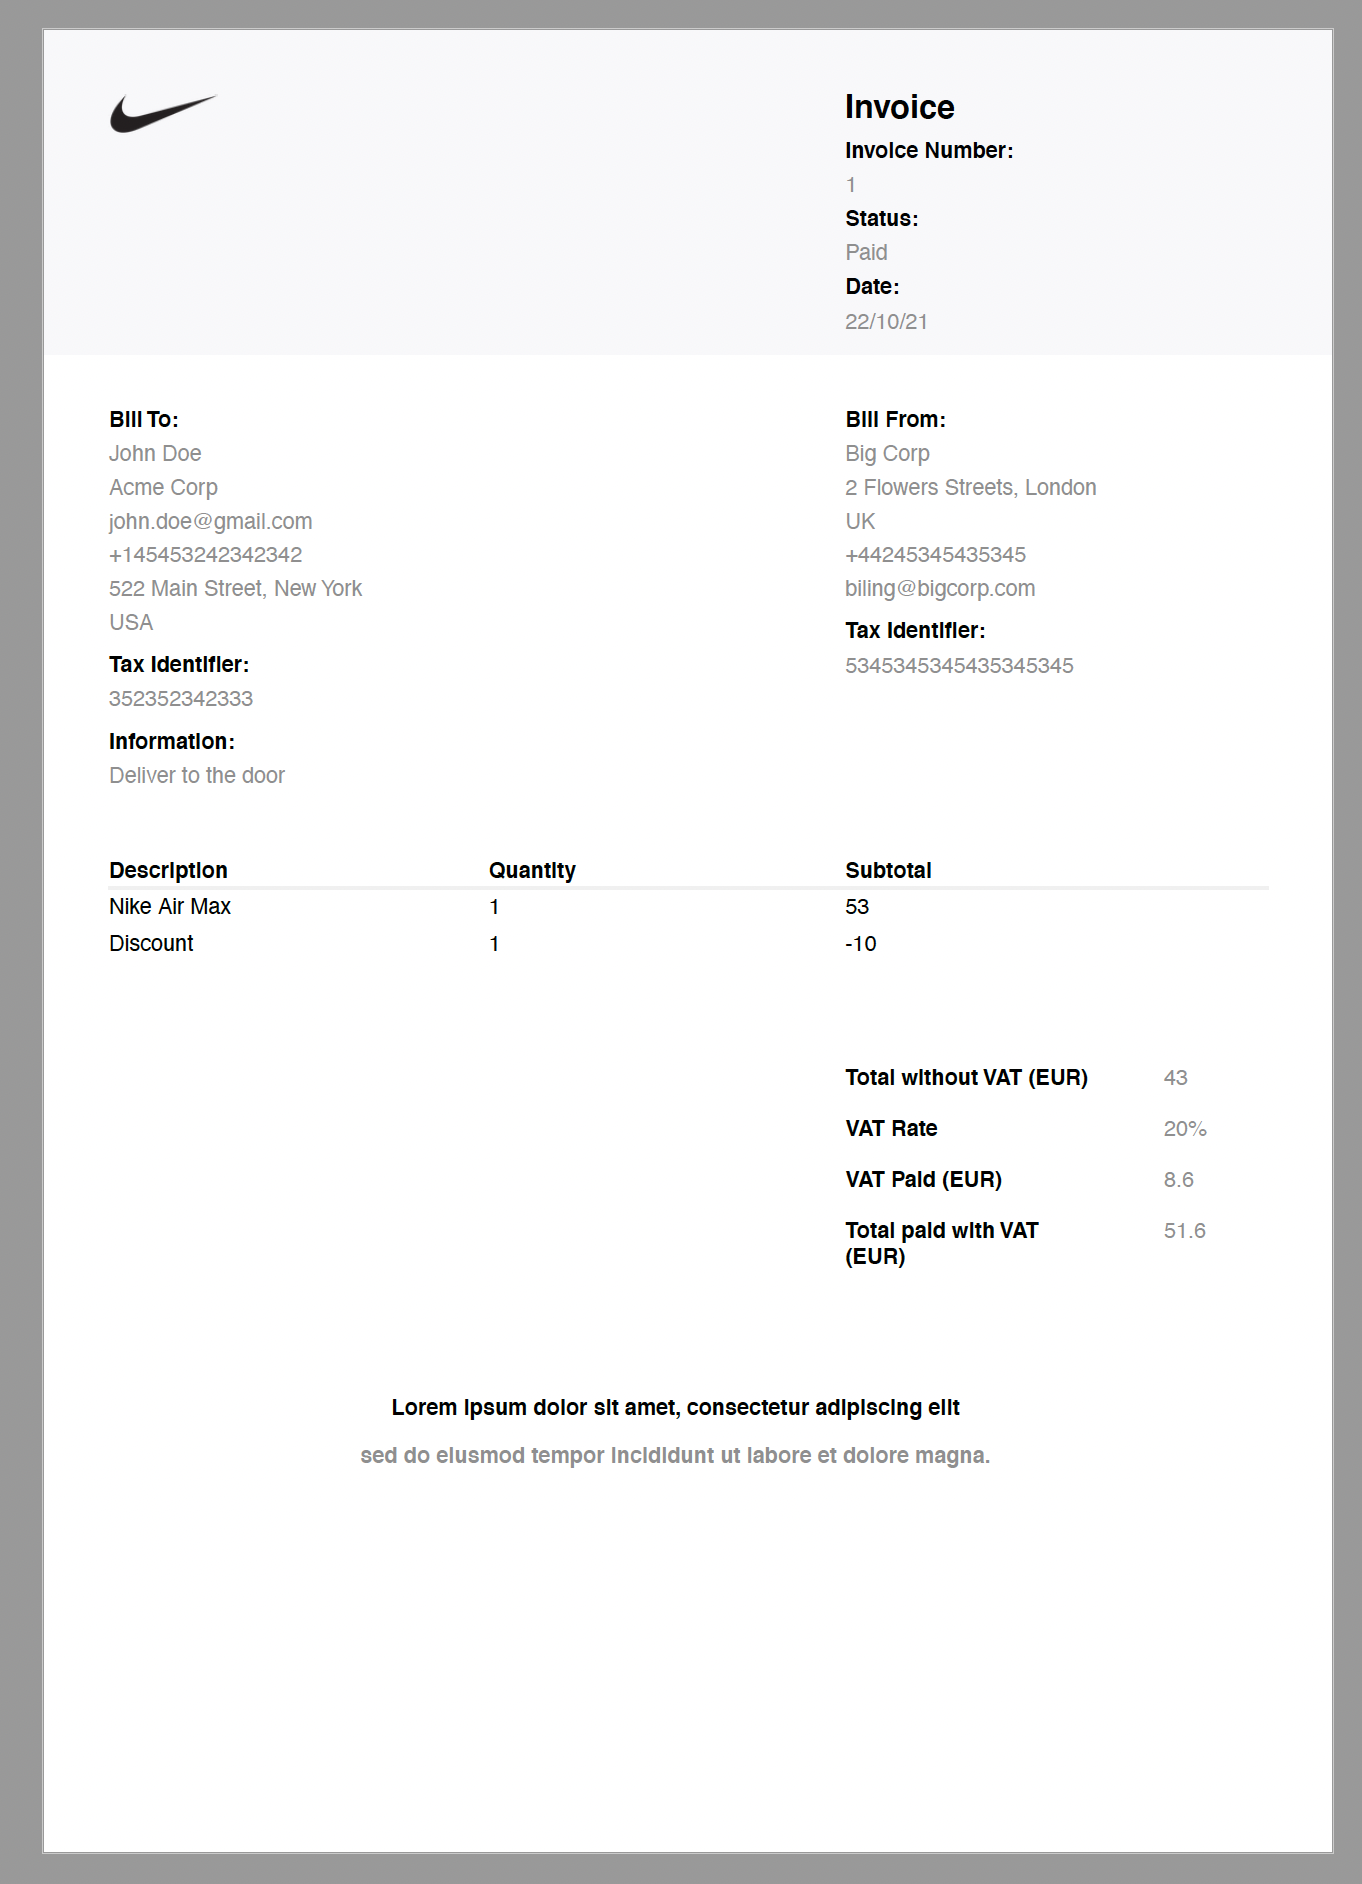
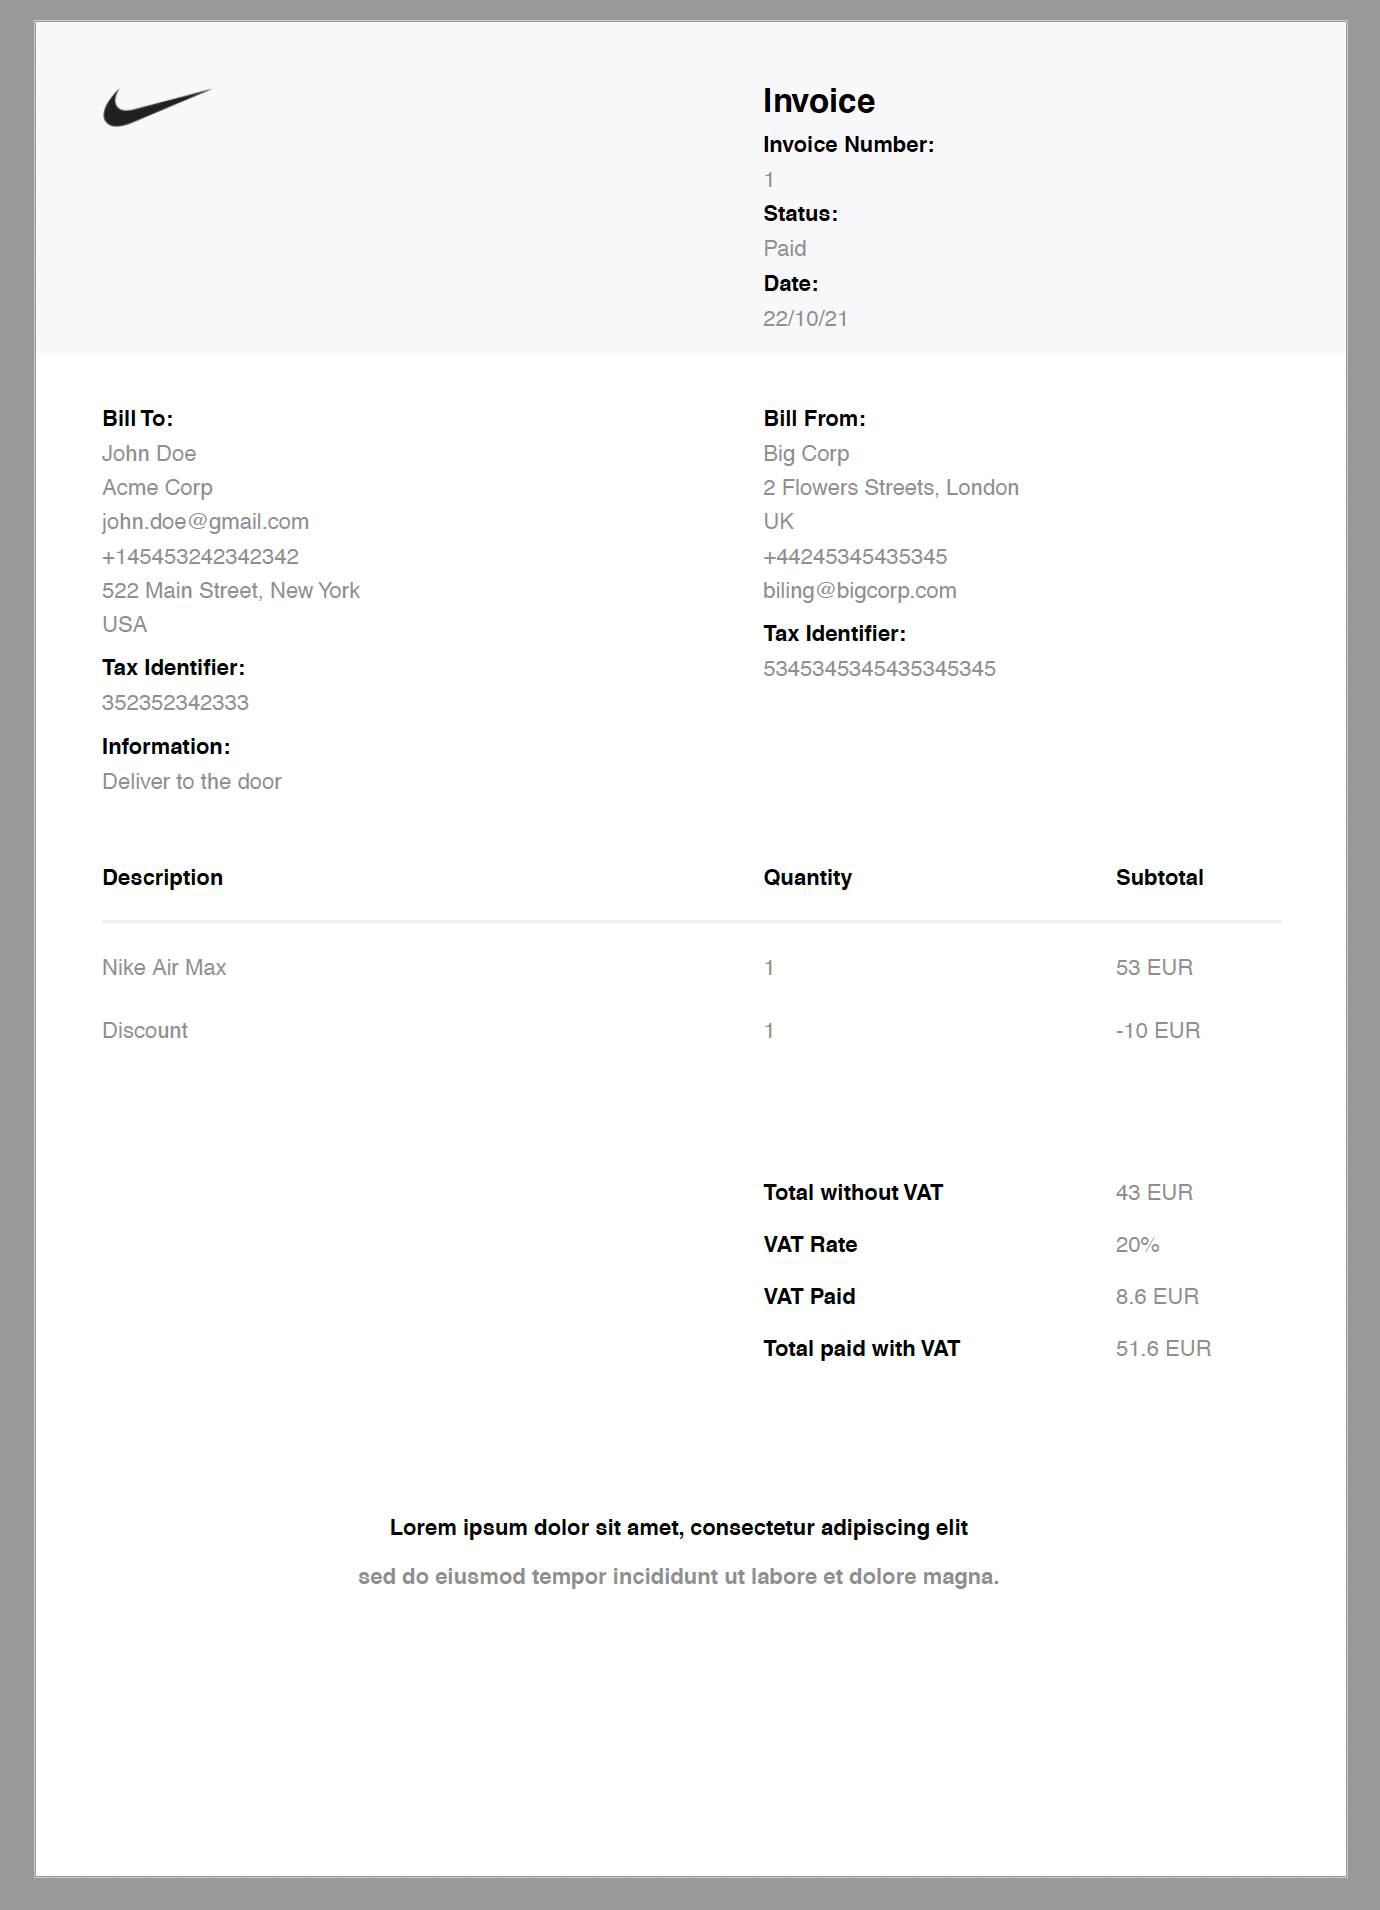
Better example

diff --git a/examples/index.js b/examples/index.js
@@ -28,6 +28,8 @@ let myInvoice = new MicroInvoice({
         value : "22/10/21"
       }],
 
+      currency : "EUR",
+
       customer : [{
         label : "Bill To",
         value : [
@@ -86,7 +88,8 @@ let myInvoice = new MicroInvoice({
           }, {
             value : 1
           }, {
-            value : "53"
+            value : "53",
+            price : true
           }],
 
           [{
@@ -94,22 +97,26 @@ let myInvoice = new MicroInvoice({
           }, {
             value : 1
           }, {
-            value : "-10"
+            value : "-10",
+            price : true
           }]
         ],
 
         total : [{
-          label : "Total without VAT (EUR)",
-          value : "43"
+          label : "Total without VAT",
+          value : "43",
+          price : true
         }, {
           label : "VAT Rate",
           value : "20%"
         }, {
-          label : "VAT Paid (EUR)",
-          value : "8.6"
+          label : "VAT Paid",
+          value : "8.6",
+          price : true
         }, {
-          label : "Total paid with VAT (EUR)",
-          value : "51.6"
+          label : "Total paid with VAT",
+          value : "51.6",
+          price : true
         }]
       }
     }
